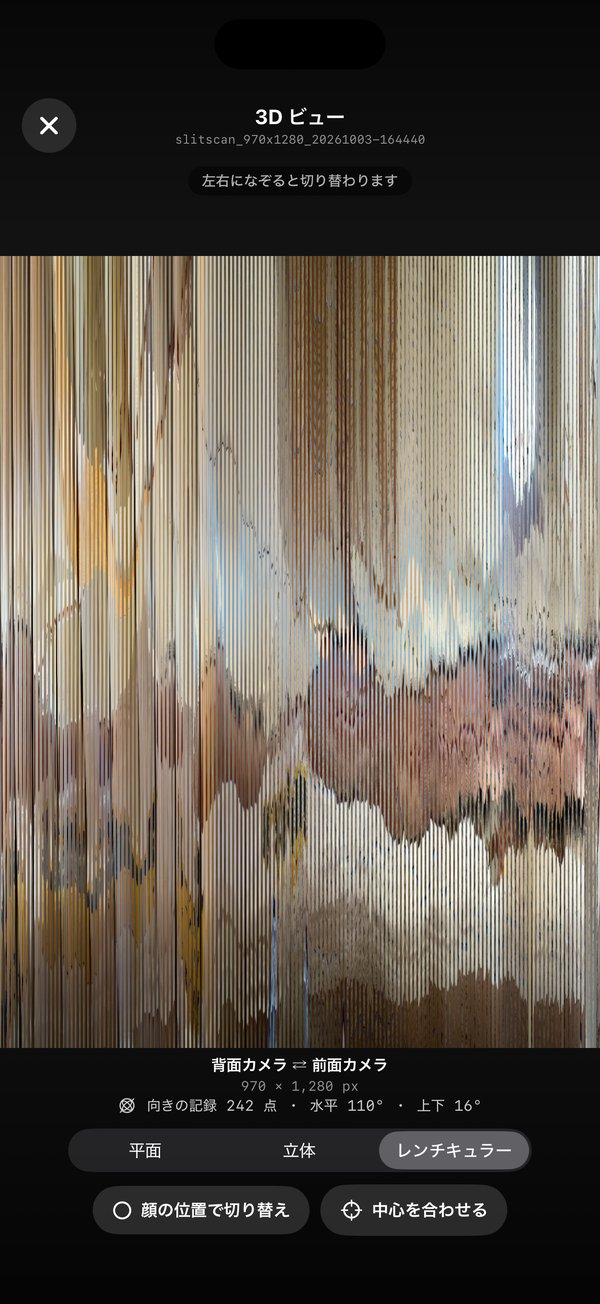
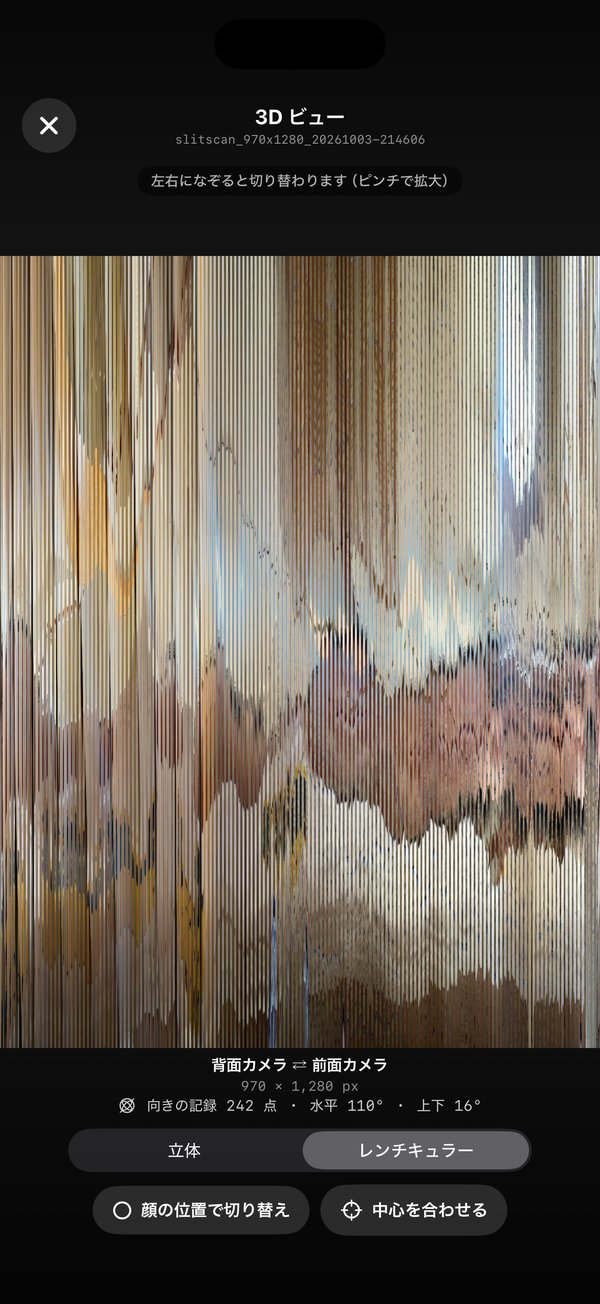
3D の見せ方を立体とレンチキュラーの 2 つに（平面を外した）、スクリーンショットを差し替え

Changed region(s): [[0.24, 0.1227, 0.75, 0.1534], [0.48, 0.8589, 0.81, 0.9202], [0.21, 0.8589, 0.33, 0.8896]]

diff --git a/index.html b/index.html
@@ -221,17 +221,12 @@ footer { margin-top: 72px; padding-top: 24px; border-top: 1px solid var(--line);
 <h2 id="viewer">4. 3D で見る</h2>
 
 <p>
-  スキャンを終えると、結果が 3D の画面で開きます（設定の「撮影後に自動で3D表示」で切れます）。画面の下で、3 通りの見せ方を選べます。
-</p>
-
-<h3>平面</h3>
-<p>
-  薄い板に画像を貼った形です。<strong>表が背面カメラ、裏が前面カメラ</strong>の画像です。ドラッグで回し、ピンチで拡大します。「反転」を押すと裏返ります。
+  スキャンを終えると、結果が 3D の画面で開きます（設定の「撮影後に自動で3D表示」で切れます）。画面の下で、2 通りの見せ方を選べます。
 </p>
 
 <h3>立体</h3>
 <p>
-  スキャン中の iPhone の動きに沿って、板を曲げた形です。ジャイロで記録した<strong>向き</strong>と、オプティカルフローで測った<strong>実際に動いた量</strong>から組み立てます。
+  スキャン中の iPhone の動きに沿って、板を曲げた形です。<strong>表が背面カメラ、裏が前面カメラ</strong>の画像です。ドラッグで回し、ピンチで拡大します。「反転」を押すと裏返ります。ジャイロで記録した<strong>向き</strong>と、オプティカルフローで測った<strong>実際に動いた量</strong>から組み立てます。
 </p>
 <table>
   <tr><th>スキャン中の動き</th><th>できる形</th></tr>
@@ -260,15 +255,10 @@ footer { margin-top: 72px; padding-top: 24px; border-top: 1px solid var(--line);
 
 <h3>USDZ で書き出す</h3>
 <p>
-  平面と立体は、「USDZ」を押すと USDZ ファイル（Apple の 3D の形式）として書き出せます。立体を表示しているときは、曲げた形のまま書き出します。書き出したファイルは、「ファイル」アプリや AR クイックルックで開けます。
+  立体は、「USDZ」を押すと USDZ ファイル（Apple の 3D の形式）として、曲げた形のまま書き出せます。書き出したファイルは、「ファイル」アプリや AR クイックルックで開けます。
 </p>
 
 <div class="shots">
-  <figure>
-    <img src="shots/viewer-flat.jpg" width="300" height="652" loading="lazy"
-         alt="3D の画面の「平面」。スキャンした画像を貼った薄い板を、斜めから見たところ">
-    <figcaption>平面</figcaption>
-  </figure>
   <figure>
     <img src="shots/viewer-solid.jpg" width="300" height="652" loading="lazy"
          alt="3D の画面の「立体」。スキャン中の iPhone の動きに沿って曲がった板">

diff --git a/en/index.html b/en/index.html
@@ -235,18 +235,14 @@ footer { margin-top: 72px; padding-top: 24px; border-top: 1px solid var(--line);
 
 <p>
   When a scan ends, it opens in a 3D view. (You can turn this off in Settings.)
-  Along the bottom you can choose between three ways of looking at it.
-</p>
-
-<h3>Flat</h3>
-<p>
-  The scan as a thin board. <strong>The front face shows the back camera; the reverse shows the front camera.</strong>
-  Drag to rotate, pinch to zoom, and use the flip button to turn the board over.
+  Along the bottom you can choose between two ways of looking at it.
 </p>
 
 <h3>Solid</h3>
 <p>
   The board is bent to follow how the phone moved during the scan.
+  <strong>The front face shows the back camera; the reverse shows the front camera.</strong>
+  Drag to rotate, pinch to zoom, and use the flip button to turn it over.
   The shape is rebuilt from the <strong>orientation</strong> recorded by the gyroscope and the <strong>actual movement</strong> measured by optical flow.
 </p>
 <table>
@@ -283,17 +279,11 @@ footer { margin-top: 72px; padding-top: 24px; border-top: 1px solid var(--line);
 
 <h3>Exporting USDZ</h3>
 <p>
-  Flat and Solid can be exported as a USDZ file (Apple’s 3D file format).
-  If you are looking at Solid, the bent shape is what gets exported.
+  Solid can be exported as a USDZ file (Apple’s 3D file format), keeping its bent shape.
   The file opens in the Files app and in AR Quick Look.
 </p>
 
 <div class="shots">
-  <figure>
-    <img src="../shots/viewer-flat.jpg" width="300" height="652" loading="lazy"
-         alt="3D view in Flat mode: a thin board carrying the scan, seen at an angle">
-    <figcaption>Flat</figcaption>
-  </figure>
   <figure>
     <img src="../shots/viewer-solid.jpg" width="300" height="652" loading="lazy"
          alt="3D view in Solid mode: the board bent to follow how the phone moved during the scan">
